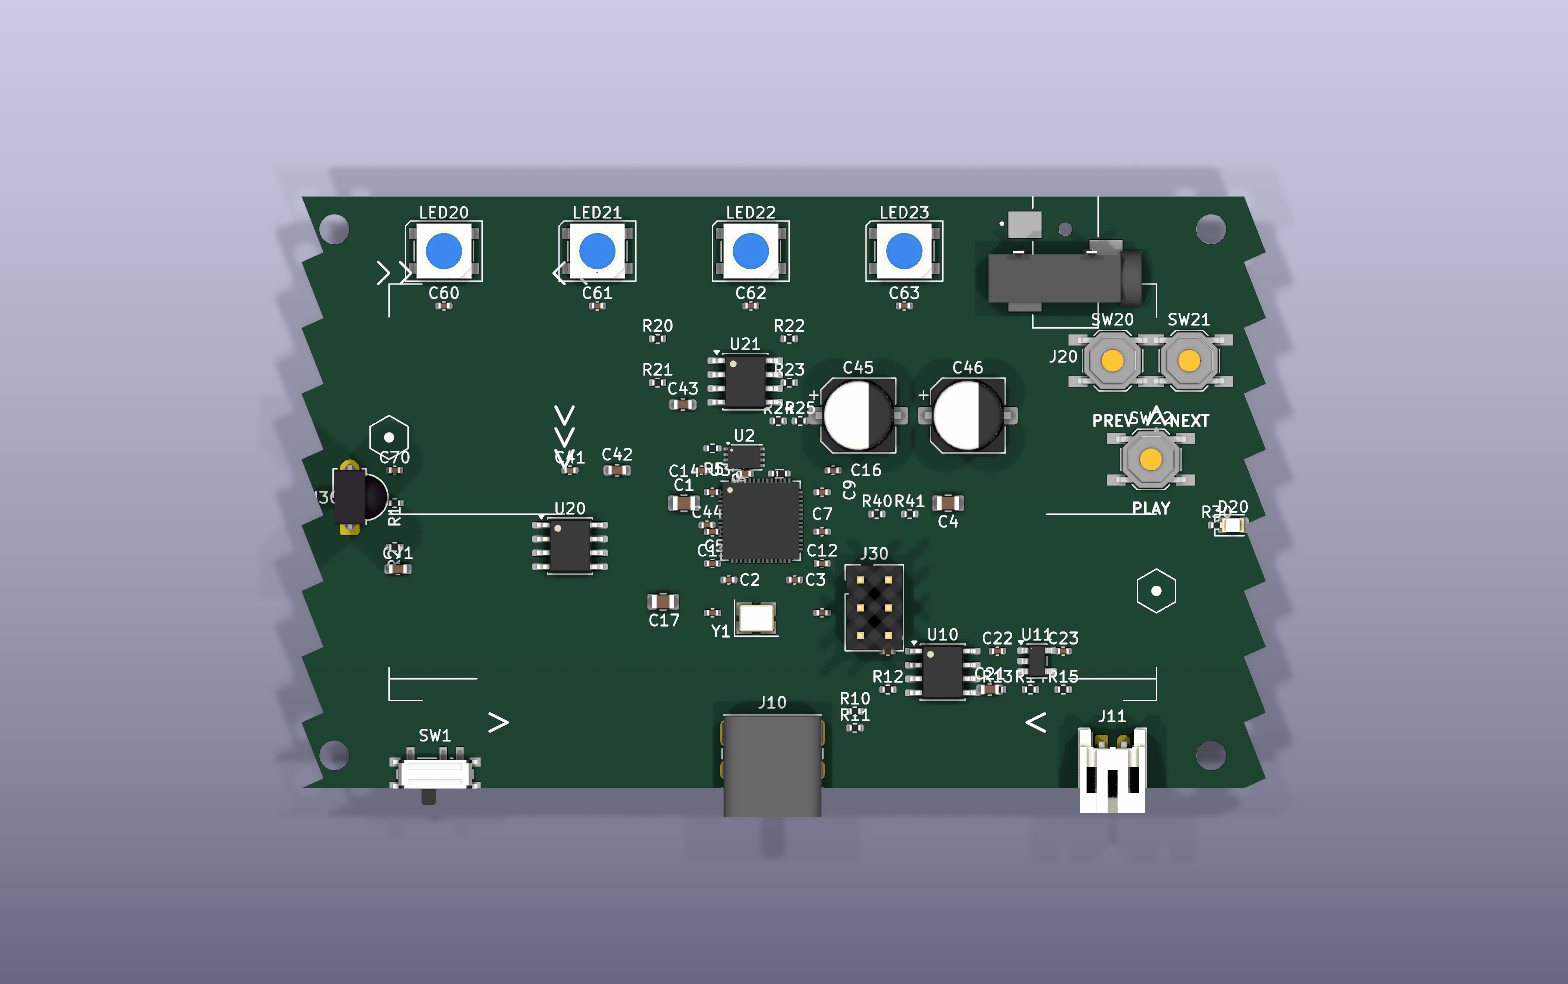
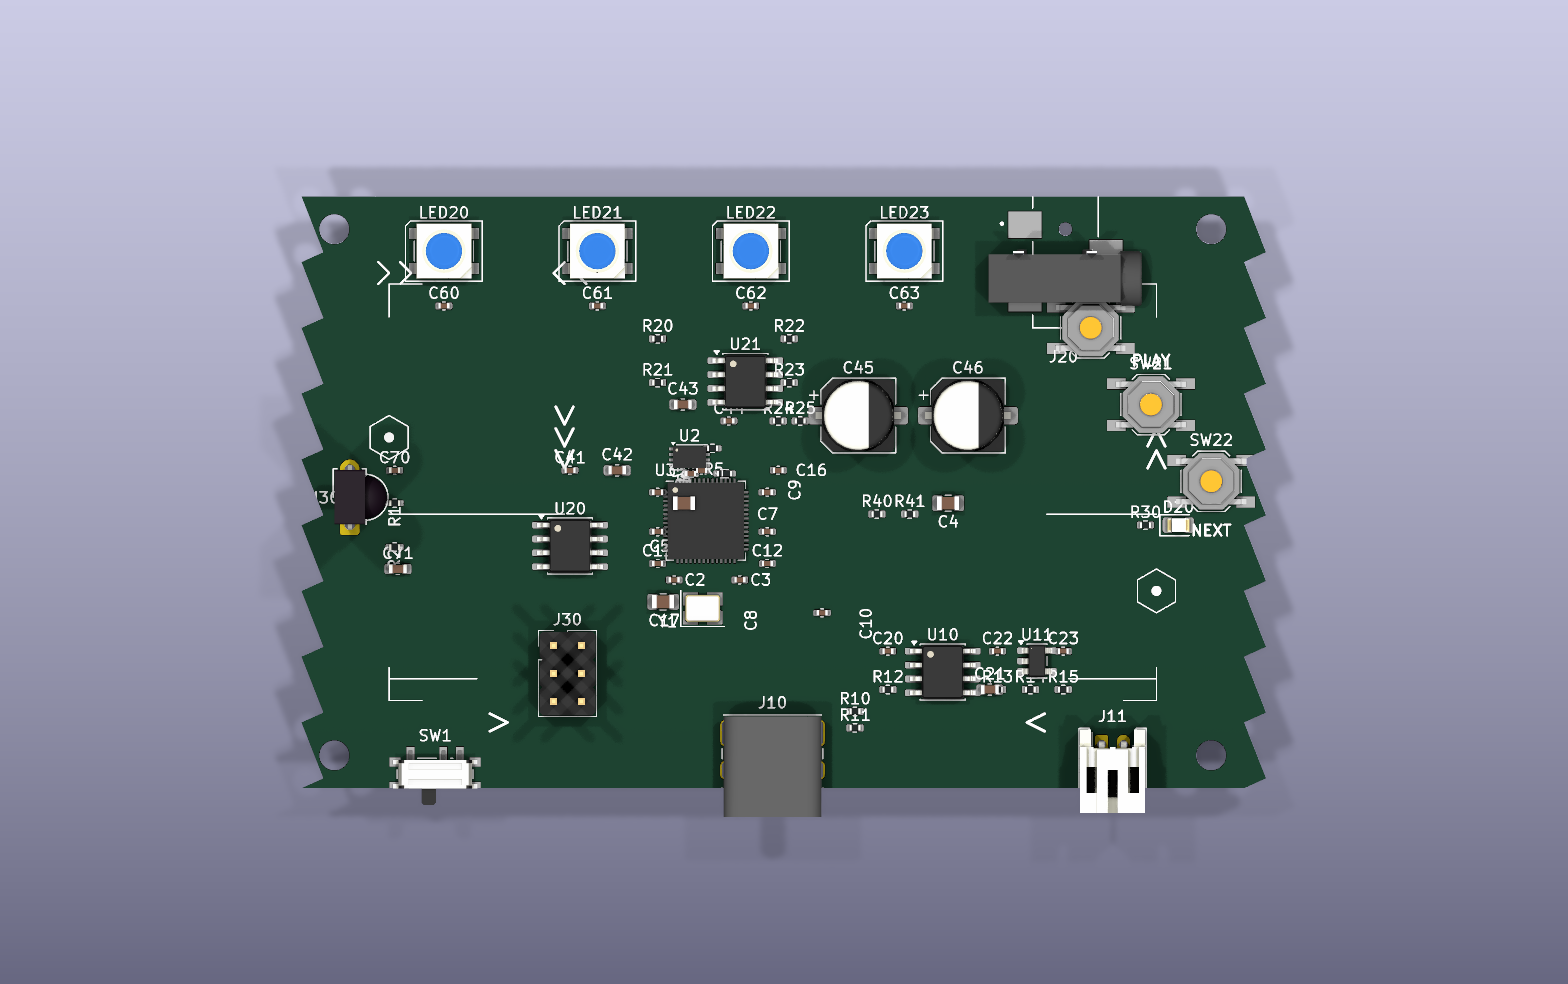
fix(layout): spacing pass — shift U3 left, diagonal buttons, J30 to SW1
- Shift U3 cluster (U3, U2, Y1, C16, and 12 decoupling caps/resistors)
  left by 5mm — gives breathing room between MCU and the audio
  electrolytics C45/C46.
- C44: move to (139, 100.5) next to U21 audio amp where it belongs.
- D20 + R30 IR LED: pull further from sawtooth right edge (D20 x=180,
  R30 x=177) — was tight on edge clearance.
- SW20-22: diagonal line from top-left to bottom-right
  (PREV / PLAY / NEXT), silk labels follow each button.
- J30 SAO header: move from middle of IC cluster to bottom-left next
  to SW1 (anchor 123, 121) — accessible from board edge, off the MCU
  area.

Re: LED current limiting — SK9822 has built-in constant-current per
channel; no external resistors needed.

Changed region(s): [[0.4062, 0.4268, 0.5938, 0.6707], [0.6562, 0.3049, 0.8125, 0.5488], [0.3125, 0.6098, 0.4062, 0.7622]]

diff --git a/defcon_badge/tools/cleanup_pass2.py b/defcon_badge/tools/cleanup_pass2.py
@@ -1,0 +1,205 @@
+#!/usr/bin/env python3
+"""cleanup_pass2.py — second review-feedback pass.
+
+- Shift U3 RP2040 cluster (U3 + all decoupling caps within 7mm) left by
+  5mm to give breathing room around the audio caps.
+- Special-case C44 to its proper home next to U21 (audio AC coupling).
+- Pull D20 IR LED + R30 series resistor further from the right sawtooth.
+- Rearrange SW20-22 buttons into a diagonal line (top-left → bottom-right)
+  with PREV / PLAY / NEXT silk labels.
+- Move J30 SAO header next to SW1 in the bottom-left, off the IC cluster.
+"""
+from __future__ import annotations
+import math
+import re
+import subprocess
+import sys
+import uuid
+from pathlib import Path
+
+PCB = Path("defcon_badge/defcon_badge.kicad_pcb")
+SILK_TAG = "c1eanup1"  # reuse so prior labels are replaced
+
+# Current U3 anchor; everything within RADIUS mm of this point gets
+# shifted by SHIFT.
+U3_CENTER = (141.9, 109.6)
+RADIUS = 7.0
+SHIFT = (-5.0, 0.0)
+
+# Components excluded from the cluster shift (move them individually).
+EXCLUDED = {'C44'}
+
+# Absolute target positions: refdes -> (x, y, rot or None)
+INDIVIDUAL_MOVES = {
+    'C44':  (139.0, 100.5, None),   # next to U21 audio amp
+    'D20':  (180.0, 110.0, None),   # was 185 (still close to sawtooth)
+    'R30':  (177.0, 110.0, None),   # series with D20
+    'SW20': (172.0, 92.0, None),    # diagonal: top-left
+    'SW21': (177.5, 99.0, None),    # diagonal: middle
+    'SW22': (183.0, 106.0, None),   # diagonal: bottom-right
+    'J30':  (123.0, 121.0, None),   # near SW1, off the IC cluster
+}
+
+# (text, x, y, size)
+SILK = [
+    ('PREV',  172.0,  88.0, 1.0),   # above SW20 (top of diagonal)
+    ('PLAY',  177.5,  95.0, 1.0),   # above SW21 (middle of diagonal)
+    ('NEXT',  183.0, 110.5, 1.0),   # below SW22 (bottom of diagonal)
+]
+
+
+def find_footprint_block(text: str, refdes: str) -> tuple[int, int] | None:
+    pattern = rf'\(property "Reference" "{re.escape(refdes)}"'
+    m = re.search(pattern, text)
+    if not m:
+        return None
+    pos = m.start()
+    depth = 0
+    i = pos - 1
+    while i >= 0:
+        if text[i] == ')':
+            depth += 1
+        elif text[i] == '(':
+            if depth == 0:
+                j = i + 1
+                while j < len(text) and (text[j].isalnum() or text[j] == '_'):
+                    j += 1
+                if text[i + 1:j] == 'footprint':
+                    d2 = 1
+                    k = i + 1
+                    while k < len(text):
+                        if text[k] == '(':
+                            d2 += 1
+                        elif text[k] == ')':
+                            d2 -= 1
+                            if d2 == 0:
+                                return i, k + 1
+                        k += 1
+            depth -= 1
+        i -= 1
+    return None
+
+
+def fp_at(text: str, refdes: str) -> tuple[float, float, float | None]:
+    span = find_footprint_block(text, refdes)
+    if span is None:
+        raise KeyError(refdes)
+    block = text[span[0]:span[1]]
+    m = re.search(r'\(at (-?\d+\.?\d*)\s+(-?\d+\.?\d*)(?:\s+(-?\d+\.?\d*))?\)',
+                  block)
+    if not m:
+        raise ValueError(f"no (at ...) in {refdes}")
+    return float(m.group(1)), float(m.group(2)), \
+        (float(m.group(3)) if m.group(3) else None)
+
+
+def set_fp_at(text: str, refdes: str, x: float, y: float,
+              rot: float | None) -> str:
+    span = find_footprint_block(text, refdes)
+    if span is None:
+        print(f"  {refdes}: not found")
+        return text
+    start, end = span
+    block = text[start:end]
+    pat = re.compile(r'(\(at )(-?\d+\.?\d*)\s+(-?\d+\.?\d*)(\s+(-?\d+\.?\d*))?(\))')
+    new_block, n = pat.subn(
+        lambda m: (f"(at {x:.3f} {y:.3f}"
+                   + (f" {rot}" if rot is not None
+                      else (f" {m.group(5)}" if m.group(5) else ""))
+                   + ")"),
+        block, count=1
+    )
+    if n == 0:
+        print(f"  {refdes}: no (at ...) found")
+        return text
+    return text[:start] + new_block + text[end:]
+
+
+def list_refdes(text: str) -> list[str]:
+    """All refdes in the PCB."""
+    return list(set(re.findall(r'\(property "Reference" "([^"]+)"', text)))
+
+
+def remove_old_silk(text: str) -> str:
+    pat = re.compile(
+        r'\t\(gr_text "[^"]*" \(at [^)]+\) \(layer "[^"]+"\) '
+        r'\(uuid "' + SILK_TAG + r'[^"]*"\) \(effects[^\n]+\n'
+    )
+    new, n = pat.subn('', text)
+    if n:
+        print(f"  removed {n} old cleanup silk labels")
+    return new
+
+
+def add_silk_text(text: str, label: str, x: float, y: float,
+                  size: float) -> str:
+    short = uuid.uuid4().hex[:24]
+    uid = SILK_TAG + short
+    block = (
+        f'\t(gr_text "{label}" (at {x:.3f} {y:.3f} 0) '
+        f'(layer "F.SilkS") (uuid "{uid}") '
+        f'(effects (font (size {size:.2f} {size:.2f}) (thickness 0.2))))\n'
+    )
+    idx = text.rfind('\n)')
+    return text[:idx + 1] + block + text[idx + 1:]
+
+
+def main() -> int:
+    text = PCB.read_text()
+    Path('defcon_badge/defcon_badge.kicad_pcb.pre_cleanup2').write_text(text)
+
+    print("== Identify U3 cluster ==")
+    all_refs = list_refdes(text)
+    cluster = []
+    for ref in all_refs:
+        if ref in EXCLUDED:
+            continue
+        if ref in INDIVIDUAL_MOVES:
+            continue
+        try:
+            x, y, _ = fp_at(text, ref)
+        except (KeyError, ValueError):
+            continue
+        if math.hypot(x - U3_CENTER[0], y - U3_CENTER[1]) <= RADIUS:
+            cluster.append(ref)
+    cluster.sort()
+    print(f"  cluster ({len(cluster)} parts): {cluster}")
+
+    print(f"== Shift cluster by {SHIFT} ==")
+    for ref in cluster:
+        x, y, rot = fp_at(text, ref)
+        nx, ny = x + SHIFT[0], y + SHIFT[1]
+        text = set_fp_at(text, ref, nx, ny, None)
+        print(f"  {ref}: ({x:.2f}, {y:.2f}) → ({nx:.2f}, {ny:.2f})")
+
+    print("== Individual moves ==")
+    for ref, (x, y, rot) in INDIVIDUAL_MOVES.items():
+        text = set_fp_at(text, ref, x, y, rot)
+        print(f"  {ref}: → ({x}, {y})")
+
+    print("== Silk labels ==")
+    text = remove_old_silk(text)
+    for label, x, y, size in SILK:
+        text = add_silk_text(text, label, x, y, size)
+        print(f"  +silk '{label}' at ({x}, {y})")
+
+    PCB.write_text(text)
+    print("Wrote PCB. Verifying loads…")
+    r = subprocess.run(
+        ['kicad-cli', 'pcb', 'drc', '--format', 'report',
+         '-o', '/tmp/drc.rpt', str(PCB)],
+        capture_output=True
+    )
+    if r.returncode != 0:
+        print("FAILED. Restoring backup.")
+        PCB.write_text(
+            Path('defcon_badge/defcon_badge.kicad_pcb.pre_cleanup2').read_text()
+        )
+        print("stderr:", r.stderr.decode()[:500])
+        return 1
+    print("OK.")
+    return 0
+
+
+if __name__ == '__main__':
+    sys.exit(main())